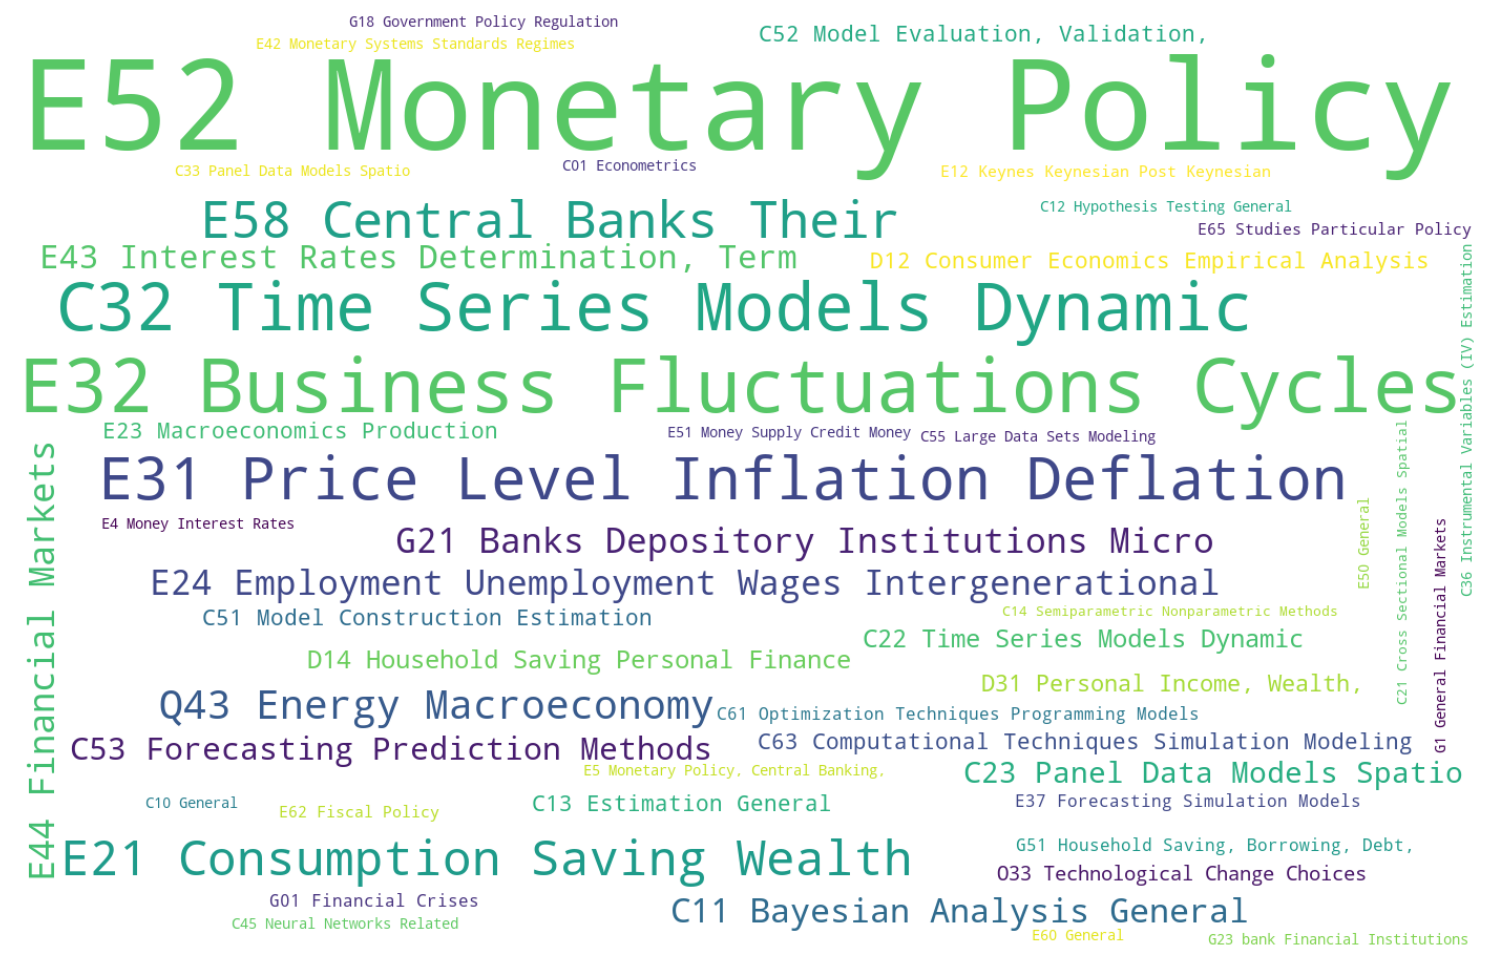
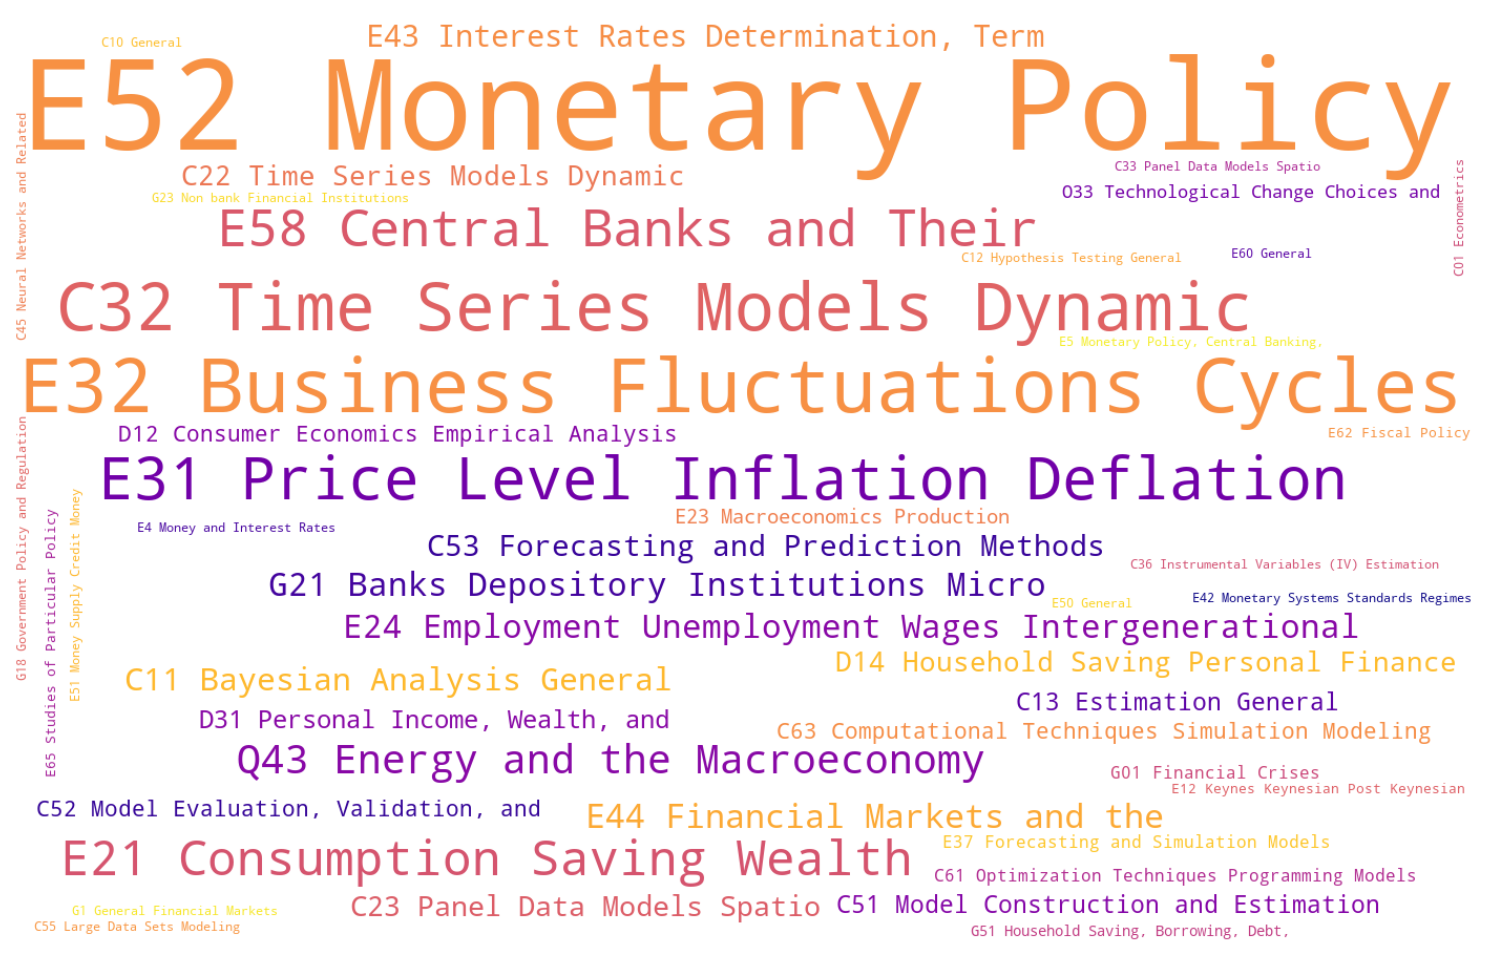
Refactor SVG background and update teaching content: replaced gradient and patterns in mathematical background SVG, revised author awards dates, enhanced teaching philosophy and course descriptions, and improved layout for interactive teaching materials.

Changed region(s): [[0.0, 0.0, 0.9886, 0.9948], [0.8959, 0.0622, 0.9268, 0.0933]]

diff --git a/content/teaching/_index.md b/content/teaching/_index.md
@@ -1,6 +1,6 @@
 ---
 title: Teaching
-summary: My courses
+cms_exclude: true
 type: landing
 
 cascade:
@@ -9,15 +9,65 @@ cascade:
     params:
       show_breadcrumb: true
 
+design:
+  spacing: "1rem"
+
 sections:
-  - block: collection
-    id: teaching
+  # Teaching Note Section
+  - block: markdown
     content:
-      title: Teaching
+      title: Teaching Note
+      text: |
+        <div style="font-size: 0.7em; margin-bottom: 20px;">
+          My teaching philosophy is built on bridging economic theory with real-world policy and equipping students with modern computational tools. As a teaching assistant at Ghent University, I draw on my experience at the European Central Bank to transform the classroom into a dynamic policy-briefing environment. I develop open-source tools, including a <a href="https://www.nikolaoskoutounidis.com/teaching/ecb-rates/" target="_blank" rel="noopener">Python application</a> that allows students to programmatically analyze official ECB data, turning abstract concepts into hands-on skills. Ultimately, I aim to empower students to not just consume research, but to produce it, mentoring them through the entire research pipeline to become independent thinkers.
+        </div>
+    design:
+      columns: '1'
+
+  # My Courses Section
+  - block: markdown
+    content:
+      title: Courses
+      text: |
+        <div style="font-size: 0.85em;">
+          As part of my role as Assistant Academic Personnel at Ghent University, I have served as a teaching assistant for the following courses:
+        </div>
+        
+        <div style="font-size: 0.85em; margin-top: 20px;">
+          <p style="margin-bottom: 20px;">
+            <strong>2022-25 Teaching Assistant</strong>, Ghent University<br>
+            <a href="https://studiekiezer.ugent.be/2024/studiefiche/en/F000568" target="_blank">Monetary Policy</a> (Master level)<br>
+            <em>Instructors: Prof. Gert Peersman, Prof. Selien De Schryder</em>
+          </p>
+          <p style="margin-bottom: 20px;">
+            <strong>2021-25 Teaching Assistant</strong>, Ghent University<br>
+            <a href="https://studiekiezer.ugent.be/2024/studiefiche/en/F000946" target="_blank">Monetary Economics</a> (Master level)<br>
+            <em>Instructor: Prof. Selien De Schryder</em>
+          </p>
+          <p style="margin-bottom: 20px;">
+            <strong>2021 Teaching Assistant</strong>, Ghent University<br>
+            International Financial Management (Master level)<br>
+            <em>Instructor: Prof. Martien Lammers</em>
+          </p>
+        </div>
+        </div>
+    design:
+      columns: '1'
+      spacing:
+        padding: ['20px', '0', '40px', '0']
+
+  # Interactive Teaching Material Section
+  - block: collection
+    id: interactive-materials
+    content:
+      title: Interactive Teaching Material
       filters:
         folders:
           - teaching
     design:
       view: article-grid
+      fill_image: false
       columns: 2
+      spacing:
+        padding: ['20px', '0', '20px', '0']
 ---

diff --git a/content/publication/_index.md b/content/publication/_index.md
@@ -13,13 +13,13 @@ sections:
       title: Research Note
       text: |
         <div style="font-size: 0.7em; margin-bottom: 20px;">
-          My research investigates how aggregate shocks transmit through the economy by combining novel microdata with credible causal identification. A central feature of my work is bridging academic research with industry data, exemplified by a four-year collaboration I established with <a href="https://www.bnpparibasfortis.com/" target="_blank"><strong>BNP Paribas Fortis</strong></a>. This "micro-to-macro" approach has allowed me to analyze the heterogeneous impacts of oil and income shocks, pandemics, and wealth taxation. My work is informed by wide reading across many economic fields, as illustrated by the JEL codes from my research library. Reflecting my particular enjoyment of coding and data visualization, I am committed to producing open-source, replicable work; for instance, I developed an <a href="https://covid-belgium-dashboard.onrender.com" target="_blank">interactive public dashboard</a> visualizing municipal COVID-19 data in Belgium for my first publication.
+          My research investigates how aggregate shocks transmit through the economy by combining novel microdata with credible causal identification. A central feature of my work is bridging academic research with industry data, exemplified by a four-year collaboration I established with <a href="https://www.bnpparibasfortis.com/" target="_blank"><strong>BNP Paribas Fortis</strong></a>. This "micro-to-macro" approach has allowed me to analyze the heterogeneous impacts of oil and income shocks, pandemics, and wealth taxation. My work is informed by wide reading across many subfields of economics, as illustrated by the JEL codes from my research library in the word cloud below. Reflecting my particular enjoyment of coding and data visualization, I am committed to producing open-source, replicable work; for instance, I developed an <a href="https://covid-belgium-dashboard.onrender.com" target="_blank">interactive public dashboard</a> visualizing municipal COVID-19 data in Belgium for my first publication.
         </div>
         
         <div style="text-align: center; margin: 20px 0 30px 0;">
           <img src="/media/wordcloud_jel.png" alt="Research Word Cloud JEL" style="max-width: 100%; height: auto; border-radius: 8px;">
           <p style="margin-top: 8px; font-size: 0.8em; color: #666; font-style: italic;">
-            A word cloud of JEL codes from my research library
+            Caption: A word cloud of JEL codes from my research library.
           </p>
         </div>
     design:

diff --git a/content/authors/admin/_index.md b/content/authors/admin/_index.md
@@ -275,20 +275,20 @@ skills:
 #   Begin multi-line `summary` with YAML's `|` or `|2-` multi-line prefix and indent 2 spaces below.
 awards:
   - title: Grant for Strategic Institutional Partnership (SIP)
-    date: '2023-01-01'
+    date: '2023-08-15'
     awarder: Ghent University
     summary: |
       Partnership with Harvard University
   - title: Grant for a long stay abroad
-    date: '2023-01-01'
+    date: '2023-02-01'
     awarder: Research Foundation – Flanders (FWO)
     summary: |
       Funding for research stay abroad
-  - title: 2017 CFA Program Access Scholarship
-    date: '2017-01-01'
-    awarder: CFA Institute
+  - title: Ph.D. Fellowship
+    date: '2020-02-01'
+    awarder: Ghent University
     summary: |
-      Scholarship for the CFA Program
+      Funding for doctoral studies
 
 # Activities and Positions of Responsibility
 activities:

diff --git a/content/teaching/ecb-rates/index.md b/content/teaching/ecb-rates/index.md
@@ -25,8 +25,8 @@ The visualization shows:
 - **Euro Short-Term Rate (€STR)**: A reference rate based on euro area banks' overnight borrowing.
 - **EONIA**: Euro Overnight Index Average (discontinued in January 2022).
 
-<div style="position: relative; padding-bottom: 95%; height: 0; overflow: hidden; margin-left: -10vw; margin-right: -10vw; width: calc(100% + 20vw);">
-  <iframe src="/html/ecb_rates.html" style="position: absolute; top: 0; left: 0; width: 100%; height: 100%; border:0;" allowfullscreen title="ECB Key Interest Rates"></iframe>
+<div style="margin-left: -5vw; margin-right: -5vw; width: calc(100% + 10vw);">
+  <iframe src="/html/ecb_rates.html" style="width: 100%; height: 600px; border:0;" allowfullscreen title="ECB Key Interest Rates"></iframe>
 </div>
 
 ## Understanding ECB Rates
